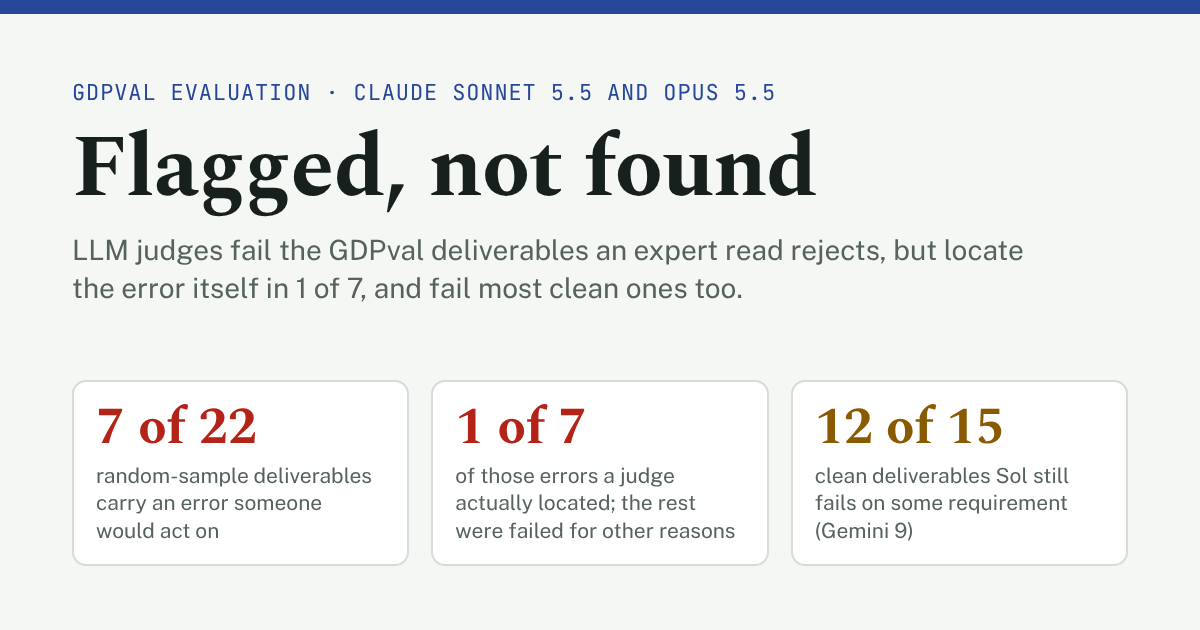
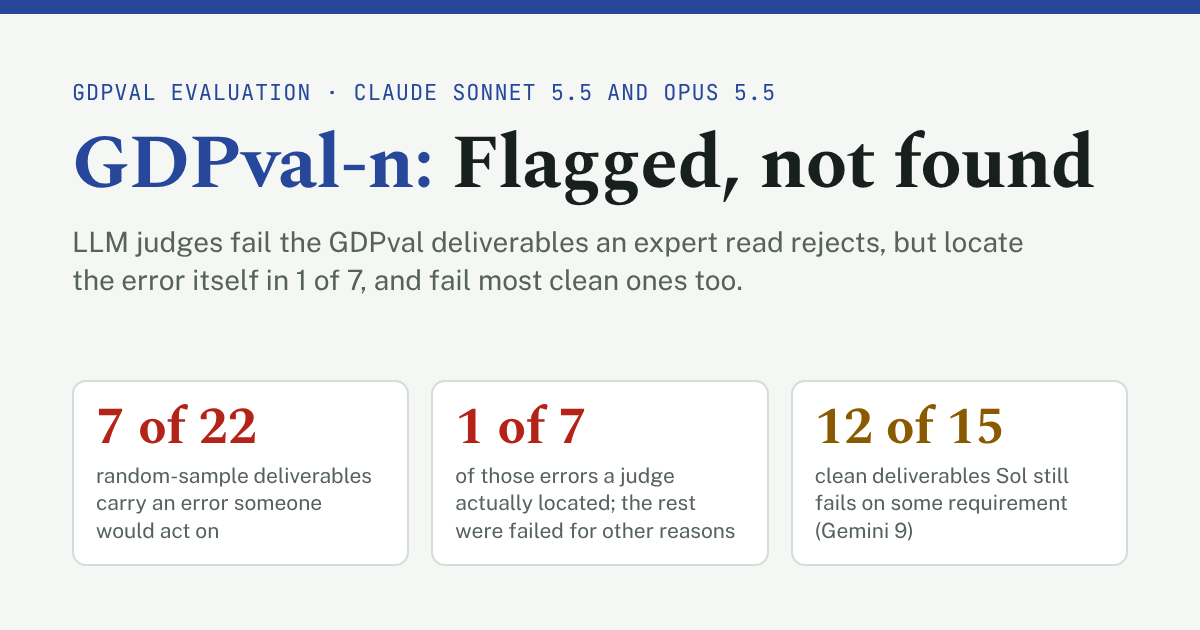
Title: GDPval-n: Flagged, not found (page, head, preview card, methods and first-stage titles, README)
Claude-Session: https://claude.ai/code/session_01WgcFumfrLxjTsCCgmEx2Vm

Changed region(s): [[0.0617, 0.2111, 0.925, 0.4825]]

diff --git a/docs/index.html b/docs/index.html
@@ -5,7 +5,7 @@
 <meta name="viewport" content="width=device-width, initial-scale=1">
 <meta name="description" content="Claude Sonnet 5.5 and Opus 5.5 on 30 GDPval tasks. 7 of 22 random deliverables carry a consequential error; two LLM judges fail those documents but locate the error in 1 of 7. Three decision rules, hand-classified errors, what the dataset must contain.">
 <meta property="og:type" content="website">
-<meta property="og:title" content="Flagged, not found: a GDPval evaluation">
+<meta property="og:title" content="GDPval-n: Flagged, not found">
 <meta property="og:description" content="Claude Sonnet 5.5 and Opus 5.5 on 30 GDPval tasks. 7 of 22 random deliverables carry a consequential error; two LLM judges fail those documents but locate the error in 1 of 7. Three decision rules, hand-classified errors, what the dataset must contain.">
 <meta property="og:url" content="https://tusu18.github.io/gdpval-eval-n/">
 <meta property="og:image" content="https://tusu18.github.io/gdpval-eval-n/og.png">
@@ -14,7 +14,7 @@
 <meta name="twitter:card" content="summary_large_image">
 <meta name="twitter:image" content="https://tusu18.github.io/gdpval-eval-n/og.png">
 <!--/v31:head-->
-<title>Flagged, not found</title>
+<title>GDPval-n: Flagged, not found</title>
 <meta name="claude:viewport-fit-sides" content="cover">
 <link rel="preconnect" href="https://fonts.googleapis.com">
 <link rel="preconnect" href="https://fonts.gstatic.com" crossorigin>
@@ -226,6 +226,8 @@ details.more[open]>summary{margin-bottom:12px;border-bottom:1px solid var(--rule
 .onpage a{display:block;border:1px solid var(--rule);border-radius:10px;padding:10px 12px;background:var(--card);color:var(--ink);text-decoration:none;font-size:.88rem}
 .onpage a b{display:block;font-family:var(--mono);font-size:.72rem;letter-spacing:.04em;text-transform:uppercase;color:var(--accent);margin-bottom:3px}
 .shortfall li{margin:4px 0}
+.nav{font-size:.84rem;gap:11px}.nav .right{gap:11px}
+h1 .pname{color:var(--accent);font-weight:600}
 .map.rec td:first-child{width:22%}.map.rec td:nth-child(2){width:44%}.map.rec td{font-size:.86rem;line-height:1.4;vertical-align:top}
 .map.ext td:first-child{width:17%}.map.ext td:nth-child(2){width:24%}.map.ext td:nth-child(3){width:31%}.map.ext td{font-size:.84rem;line-height:1.4;vertical-align:top}
 .map.gaps td:first-child{width:23%}.map.gaps td:nth-child(2){width:32%}.map.gaps td:nth-child(3){width:14%}.map.gaps td{font-size:.86rem;line-height:1.4;vertical-align:top}
@@ -266,11 +268,11 @@ details.more[open]>summary{margin-bottom:12px;border-bottom:1px solid var(--rule
 
 <main>
 
-<nav class="nav" aria-label="Sections"><a href="#h-summary">Summary</a><a href="#h-ran">1 · Evaluation</a><a href="#h-handtax">2 · Failures</a><a href="#h-data">3 · Dataset</a><a href="#h-limits">Limits</a><span class="right"><a href="first-stage.html">First stage</a><a href="methods.html">Methods</a><a href="results.json" download>results.json</a><a href="https://github.com/tusu18/gdpval-eval-n">Code</a></span></nav>
+<nav class="nav" aria-label="Sections"><a href="#h-summary">Summary</a><a href="#h-ran">1 · Evaluation</a><a href="#h-handtax">2 · Failures</a><a href="#h-data">3 · Dataset</a><a href="#h-limits">Limits</a><span class="right"><a href="first-stage.html">First stage</a><a href="methods.html">Methods</a><a href="results.json" download title="results.json, every number on this page">Data</a><a href="https://github.com/tusu18/gdpval-eval-n">Code</a></span></nav>
 
 <section aria-labelledby="h-summary">
   <div class="eyebrow">GDPval evaluation · Claude Sonnet 5.5 and Opus 5.5 · six occupations</div>
-  <h1 id="h-summary">Flagged, not found</h1>
+  <h1 id="h-summary"><span class="pname">GDPval-n:</span> Flagged, not found</h1>
   <p class="dek">Two LLM judges fail almost every GDPval deliverable that an expert read would reject, but they name the error the expert found in one case out of seven. The rest they fail for lesser reasons, and they fail most clean deliverables too. A grader is not short of flags. It is short of located, severity-graded labels.</p>
   <div class="byline"><span>Tushar Singh</span><span>6 Nov 2026</span><span>6 occupations · 30 tasks</span><span>132 attempts</span><span>27 author-verified labels</span><span>$51.57 credits + $98.16 subscription usage</span></div>
   <div class="kpis" aria-label="Key metrics">

diff --git a/docs/first-stage.html b/docs/first-stage.html
@@ -5,7 +5,7 @@
 <meta name="viewport" content="width=device-width, initial-scale=1">
 <meta name="description" content="The 15-task first stage: three models, 60 + 28 attempts, 8 full-output reads, grader validation and a 35-row failure triage. Kept for reference; not pooled with the main run.">
 <meta property="og:type" content="website">
-<meta property="og:title" content="First stage: a GDPval evaluation">
+<meta property="og:title" content="GDPval-n: first stage">
 <meta property="og:description" content="The 15-task first stage: three models, 60 + 28 attempts, 8 full-output reads, grader validation and a 35-row failure triage. Kept for reference; not pooled with the main run.">
 <meta property="og:url" content="https://tusu18.github.io/gdpval-eval-n/first-stage.html">
 <meta property="og:image" content="https://tusu18.github.io/gdpval-eval-n/og.png">
@@ -14,7 +14,7 @@
 <meta name="twitter:card" content="summary_large_image">
 <meta name="twitter:image" content="https://tusu18.github.io/gdpval-eval-n/og.png">
 <!--/v31:head-->
-<title>First stage: a GDPval evaluation</title>
+<title>GDPval-n: first stage</title>
 <meta name="claude:viewport-fit-sides" content="cover">
 <link rel="preconnect" href="https://fonts.googleapis.com">
 <link rel="preconnect" href="https://fonts.gstatic.com" crossorigin>

diff --git a/docs/methods.html b/docs/methods.html
@@ -2,7 +2,7 @@
 <html lang="en">
 <meta charset="utf-8">
 <meta name="viewport" content="width=device-width, initial-scale=1">
-<title>Methods and Prompts</title>
+<title>GDPval-n: methods and prompts</title>
 <meta name="description" content="Every prompt, selection rule, validator check, seed and budget behind the GDPval evaluation, generated from the code that ran.">
 <link rel="preconnect" href="https://fonts.googleapis.com">
 <link rel="preconnect" href="https://fonts.gstatic.com" crossorigin>

diff --git a/scripts/build_og.py b/scripts/build_og.py
@@ -21,7 +21,7 @@ def card(R, fonts):
     if v and v.get('random_sample', {}).get('labeled'):
         rs = v['random_sample']; j = v['judge_vs_human']['random_sample']; loc = v['hand_taxonomy'].get('located', {})
         n = rs['consequential_yes']; neg = j['any_fail']['sol']['fp'] + j['any_fail']['sol']['tn']; same = (loc.get('sol') or {}).get('same', 0)
-        title, dek = 'Flagged, not found', f"LLM judges fail the GDPval deliverables an expert read rejects, but locate the error itself in {same} of {n}, and fail most clean ones too."
+        title, dek = 'GDPval-n: Flagged, not found', f"LLM judges fail the GDPval deliverables an expert read rejects, but locate the error itself in {same} of {n}, and fail most clean ones too."
         stats = [(f"{rs['prevalence'][0]} of {rs['prevalence'][1]}", 'random-sample deliverables carry an error someone would act on'),
                  (f"{same} of {n}", 'of those errors a judge actually located; the rest were failed for other reasons'),
                  (f"{j['any_fail']['sol']['fp']} of {neg}", 'clean deliverables Sol still fails on some requirement (Gemini ' + str(j['any_fail']['gemini']['fp']) + ')')]
@@ -36,14 +36,15 @@ def card(R, fonts):
 *{{box-sizing:border-box;margin:0}}
 body{{width:1200px;height:630px;background:#F5F7F5;color:#18201D;font-family:'Public Sans',sans-serif;padding:64px 72px;display:flex;flex-direction:column;justify-content:space-between;border-top:14px solid #27479A}}
 .e{{font-family:'JetBrains Mono',monospace;font-size:22px;color:#27479A;letter-spacing:.04em;text-transform:uppercase}}
-h1{{font-family:'Spectral',serif;font-weight:700;font-size:88px;line-height:1;margin-top:18px;letter-spacing:-.01em}}
+h1{{font-family:'Spectral',serif;font-weight:700;font-size:{'76px' if len(title) > 20 else '88px'};line-height:1.05;margin-top:18px;letter-spacing:-.01em}}
+h1 span{{color:#27479A;font-weight:600}}
 p{{font-size:28px;color:#56625C;margin-top:18px;max-width:1000px;line-height:1.35}}
 .row{{display:grid;grid-template-columns:repeat(3,1fr);gap:22px}}
 .s{{border:2px solid #D6DCD8;border-radius:14px;background:#fff;padding:20px 22px}}
 .v{{font-family:'Spectral',serif;font-weight:700;font-size:52px;line-height:1;color:#B42318}}
 .s:nth-child(3) .v{{color:#8A5A00}}
 .l{{font-size:21px;color:#56625C;margin-top:8px;line-height:1.3}}
-</style><body><div><div class="e">GDPval evaluation · Claude Sonnet 5.5 and Opus 5.5</div><h1>{title}</h1>
+</style><body><div><div class="e">GDPval evaluation · Claude Sonnet 5.5 and Opus 5.5</div><h1>{title.replace('GDPval-n:', '<span>GDPval-n:</span>')}</h1>
 <p>{dek}</p></div>
 <div class="row">{cells}</div></body>'''
 

diff --git a/scripts/build_site.py b/scripts/build_site.py
@@ -23,8 +23,8 @@ PLACEMENT = {'h-rep': 'h-data', 'h-handtax': 'h-data', 'h-tasks': 'h-data'}
 
 
 HEADS = {
-    'index.html': ('Flagged, not found: a GDPval evaluation', 'Claude Sonnet 5.5 and Opus 5.5 on 30 GDPval tasks. 7 of 22 random deliverables carry a consequential error; two LLM judges fail those documents but locate the error in 1 of 7. Three decision rules, hand-classified errors, what the dataset must contain.', ''),
-    'first-stage.html': ('First stage: a GDPval evaluation', 'The 15-task first stage: three models, 60 + 28 attempts, 8 full-output reads, grader validation and a 35-row failure triage. Kept for reference; not pooled with the main run.', 'first-stage.html'),
+    'index.html': ('GDPval-n: Flagged, not found', 'Claude Sonnet 5.5 and Opus 5.5 on 30 GDPval tasks. 7 of 22 random deliverables carry a consequential error; two LLM judges fail those documents but locate the error in 1 of 7. Three decision rules, hand-classified errors, what the dataset must contain.', ''),
+    'first-stage.html': ('GDPval-n: first stage', 'The 15-task first stage: three models, 60 + 28 attempts, 8 full-output reads, grader validation and a 35-row failure triage. Kept for reference; not pooled with the main run.', 'first-stage.html'),
     'methods.html': None,  # methods.html writes its own head
 }
 

diff --git a/scripts/build_methods.py b/scripts/build_methods.py
@@ -84,7 +84,7 @@ def page():
 <html lang="en">
 <meta charset="utf-8">
 <meta name="viewport" content="width=device-width, initial-scale=1">
-<title>Methods and Prompts</title>
+<title>GDPval-n: methods and prompts</title>
 <meta name="description" content="Every prompt, selection rule, validator check, seed and budget behind the GDPval evaluation, generated from the code that ran.">
 <link rel="preconnect" href="https://fonts.googleapis.com">
 <link rel="preconnect" href="https://fonts.gstatic.com" crossorigin>

diff --git a/README.md b/README.md
@@ -1,4 +1,4 @@
-# Flagged, not found — a GDPval evaluation
+# GDPval-n: Flagged, not found
 
 **Live site:** https://tusu18.github.io/gdpval-eval-n/ · **Methods:** https://tusu18.github.io/gdpval-eval-n/methods.html · **First stage:** https://tusu18.github.io/gdpval-eval-n/first-stage.html · Author: Tushar Singh
 
